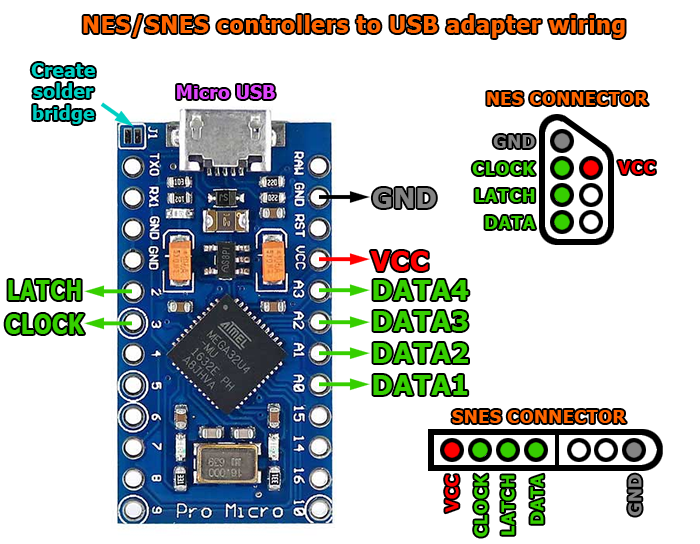
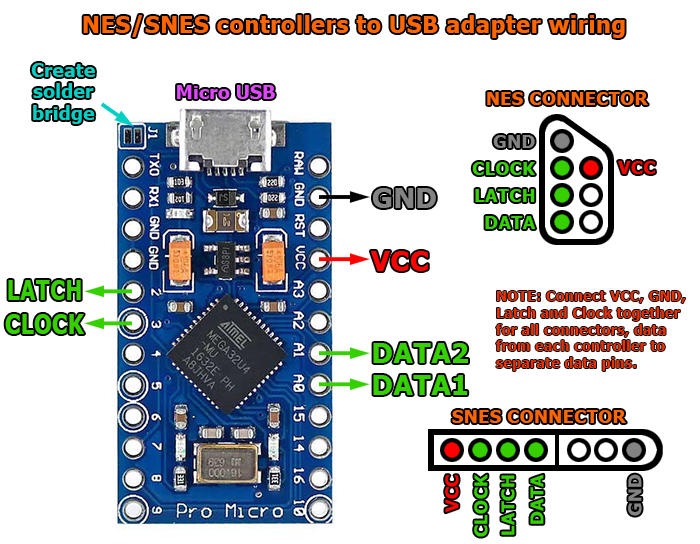
Separate SNES NTT version, debug code added to NES adapter code.

Changed region(s): [[0.45, 0.5, 0.99, 0.6875]]

diff --git a/SNESNTTControllersUSB/Gamepad.cpp b/SNESNTTControllersUSB/Gamepad.cpp
@@ -33,10 +33,10 @@ static const uint8_t _hidReportDescriptor[] PROGMEM = {
     
       0x05, 0x09,                       // USAGE_PAGE (Button)
       0x19, 0x01,                       // USAGE_MINIMUM (Button 1)
-      0x29, 0x08,                       // USAGE_MAXIMUM (Button 8)
+      0x29, 0x18,                       // USAGE_MAXIMUM (Button 24)
       0x15, 0x00,                       // LOGICAL_MINIMUM (0)
       0x25, 0x01,                       // LOGICAL_MAXIMUM (1)
-      0x95, 0x08,                       // REPORT_COUNT (8)
+      0x95, 0x18,                       // REPORT_COUNT (24)
       0x75, 0x01,                       // REPORT_SIZE (1)
       0x81, 0x02,                       // INPUT (Data,Var,Abs)
     

diff --git a/SNESNTTControllersUSB/Gamepad.h b/SNESNTTControllersUSB/Gamepad.h
@@ -31,7 +31,7 @@
 extern const char* gp_serial;
 
 typedef struct {
-  uint8_t buttons;
+  uint32_t buttons : 24;
   int8_t X;
   int8_t Y;  
 } GamepadReport;

diff --git a/SNESNTTControllersUSB/README.md b/SNESNTTControllersUSB/README.md
@@ -1,0 +1,17 @@
+# DaemonBite SNES/NES USB Controller adapter with NTT Datapad support
+## Introduction
+With this simple to build  adapter you can connect SNES and NES gamepads to a PC, Raspberry PI, MiSTer FPGA etc. The Arduino Pro Micro has very low lag when configured as a USB gamepad and it is plug n' play once it has been programmed. The controller type is auto-detected.
+
+The NTT Data Keypad controller for SNES is also supported in this version. For a faster version, use the project in the SNESControllersUSB folder.
+
+## Parts you need
+- Arduino Pro Micro (ATMega32U4)
+- Male end of SNES or NES controller extension cable
+- Heat shrink tube (Ø ~20mm)
+- Micro USB cable
+
+## Wiring
+![Assemble1](images/snes-usb-adapter-wiring.png)
+
+## License
+This project is licensed under the GNU General Public License v3.0.
